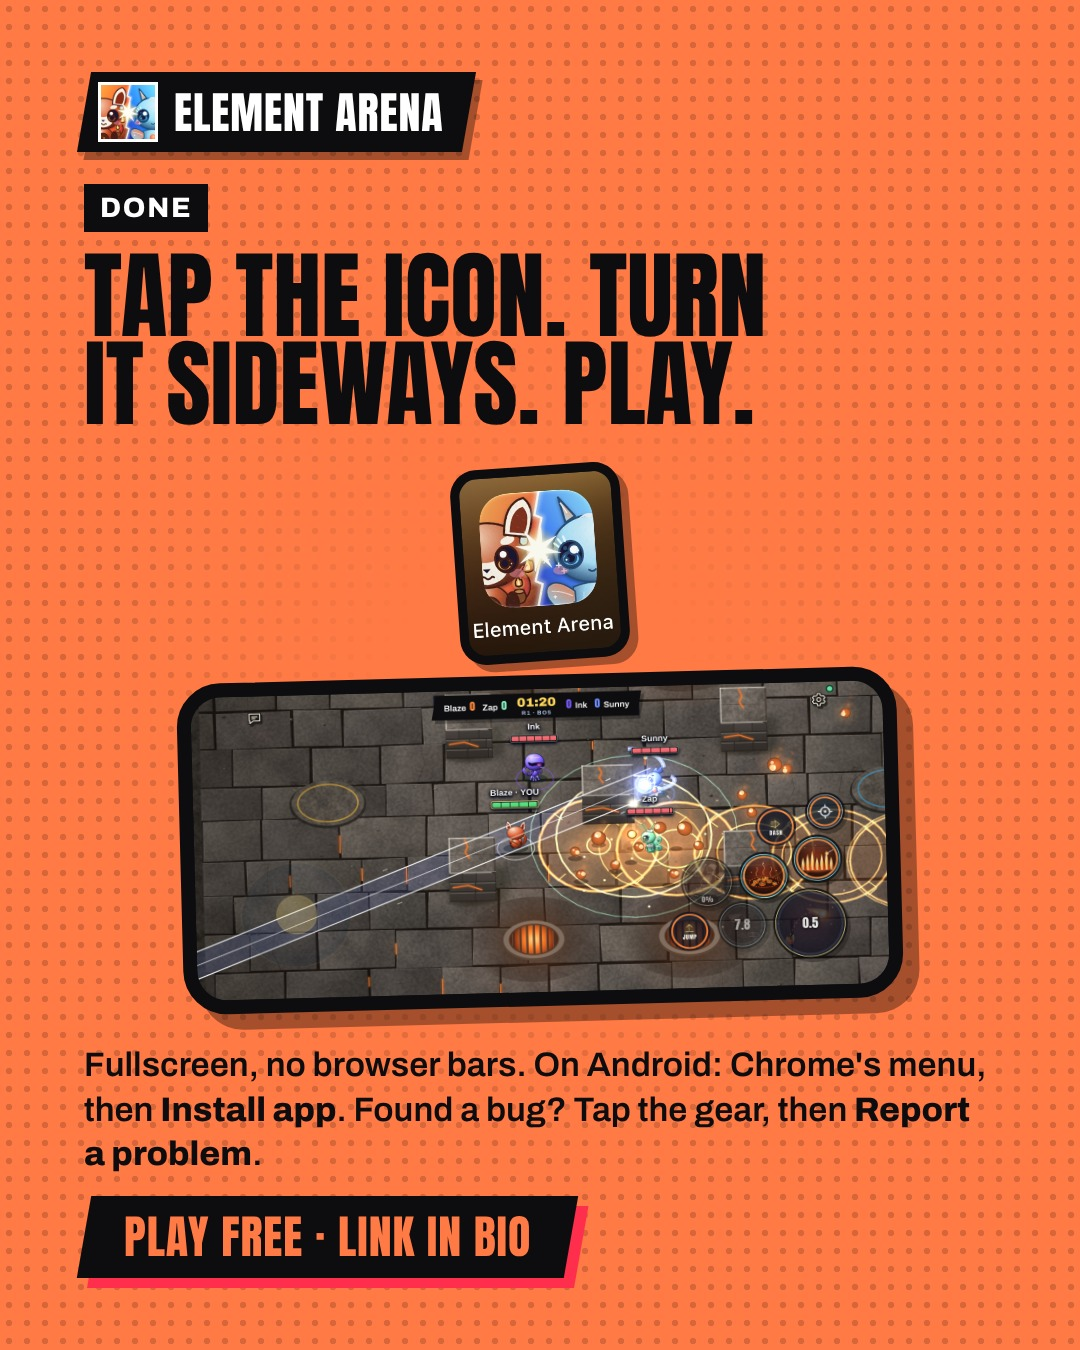
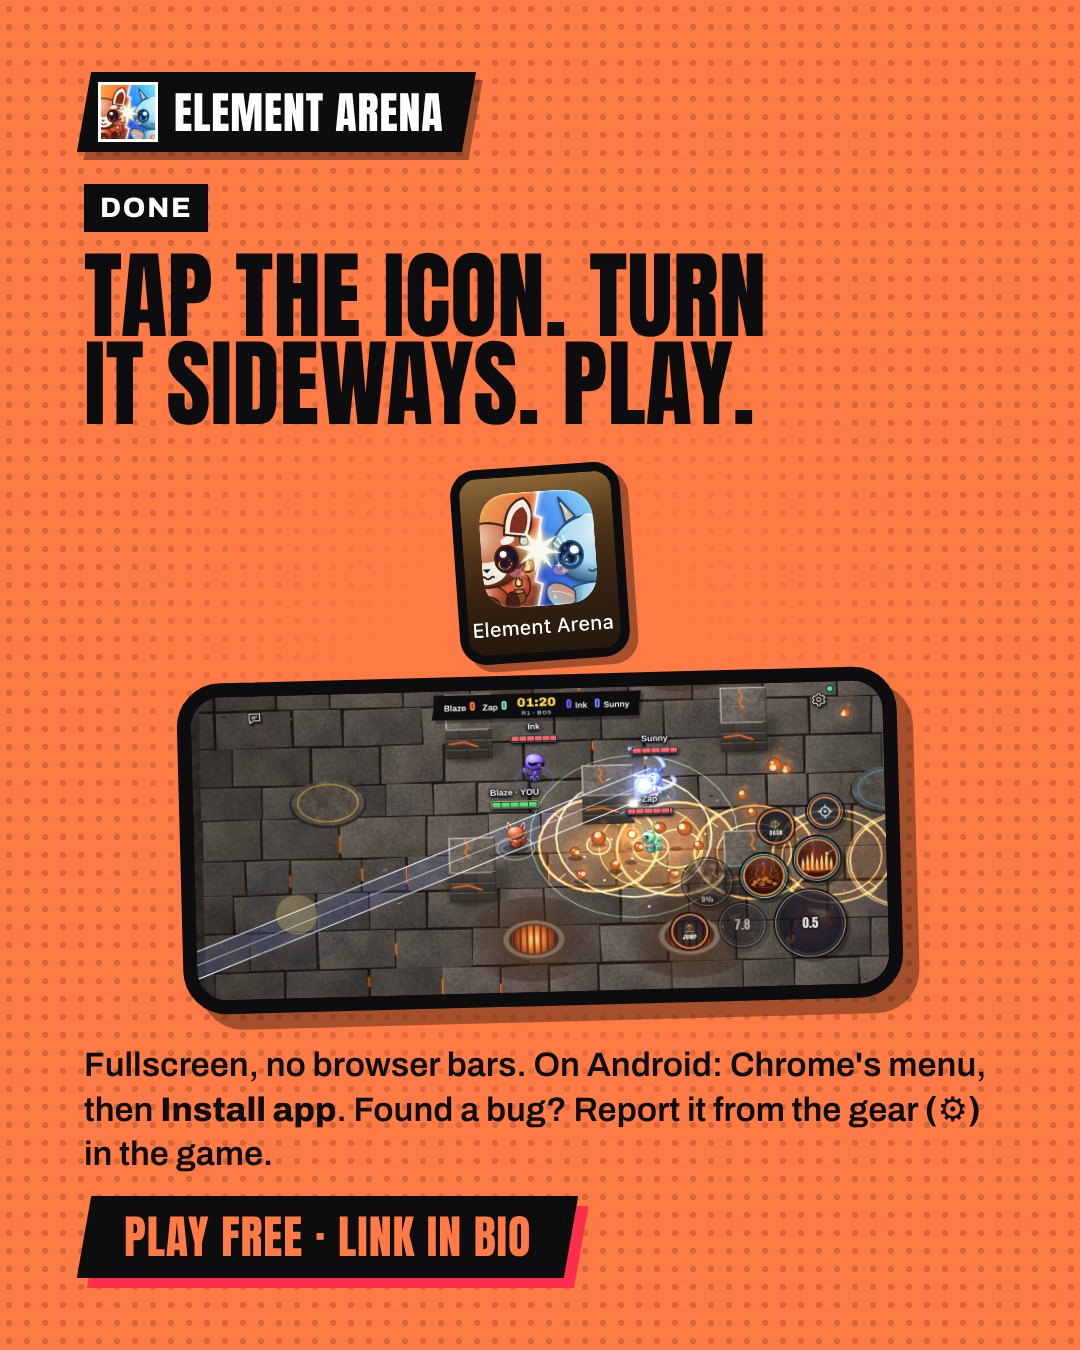
Instagram: launch-day bug-report wording that survives the gear remodel
The phone-fixes session is remodelling the gear (it will open Settings,
with Report a problem on its Help tab), likely merging 29-30 Nov, around
the first posts. Launch day's welcome caption, the how-to's caption and its
last slide now say "report it from the gear (⚙)", true before and after.
Post 10 (Fri 4 Dec) and report.spec.ts move to gear → Help → Report a
problem once the remodel is on main (docs/instagram.md says so).

Claude-Session: https://claude.ai/code/session_01GGURqTyss1yZEG5qcb1sBJ

Changed region(s): [[0.5194, 0.8089, 0.9167, 0.84], [0.0611, 0.84, 0.2444, 0.8711]]

diff --git a/docs/instagram.md b/docs/instagram.md
@@ -15,12 +15,12 @@ champions, skins and features. So the posts:
 - say "open beta", and that it's free in the browser now;
 - say the iPhone and Android apps come later, with more, but never give a
   date or promise a particular champion, skin or feature;
-- ask players to report bugs: in the game, the gear at the top of the
-  Lobby, then **Report a problem** (it needs a free account), or in the
+- ask players to report bugs: in the game, **Report a problem** under the
+  gear at the top of the Lobby (it needs a free account), or in the
   comments, which the scheduled runs thank and pass on to the owner;
 - teach adding the game to the home screen early (the owner: friends keep
   asking how), with screenshots from a real phone, never drawings. The
-  game's own steps are in the Menu, **Want fullscreen?**
+  game's own steps are under the gear too
   (`apps/client/src/fullscreen-help.ts`).
 
 The game itself marks the web version BETA beside its name, never the store
@@ -139,9 +139,13 @@ shows, retake it, look at it, and ship it before its time. The pictures in
 | 1 Welcome, 4 Lumiwick                                                | paintings only                                                                               | `make-posts.mjs`                                    |
 
 Every post's frame copies Poster (colours, fonts, slabs: the CSS in
-`make-posts.mjs`), and captions name places in the game ("the gear, then
-Report a problem", "Want fullscreen?"): when Poster's palette or the gear
-menu changes, check the frames and the captions too. The sessions changing
+`make-posts.mjs`), and captions name places in the game: when Poster's
+palette or the gear changes, check the frames and the captions too. The
+gear is being remodelled (phone-fixes session, 28 Nov): it will open
+Settings, with Report a problem on its Help tab. Until that is on main,
+captions say only "report it from the gear (⚙)", true before and after;
+post 10 and `report.spec.ts` move to gear → Help → Report a problem once it
+merges. The sessions changing
 the game's look were asked (28 Nov) to tell the Instagram session when
 they merge.
 
@@ -275,7 +279,8 @@ The owner is busy and handed the posting to Claude sessions: "có chứ"
 Comments, checked three times a day: thank people, answer the usual
 questions (where to play: the link in bio; free: yes, in the browser, an
 open beta; the phone apps: later, with more champions, skins and features;
-fullscreen: add it to the home screen, the gear then Want fullscreen?), and
+fullscreen: add it to the home screen, as the "Play it like an app" post
+shows), and
 hide spam, scams and abuse. Never promise a date, a prize or a feature.
 **A bug report** gets a short thank-you ("thanks, passed on to the team")
 and goes to the owner with what the player said. Complaints, payments,
